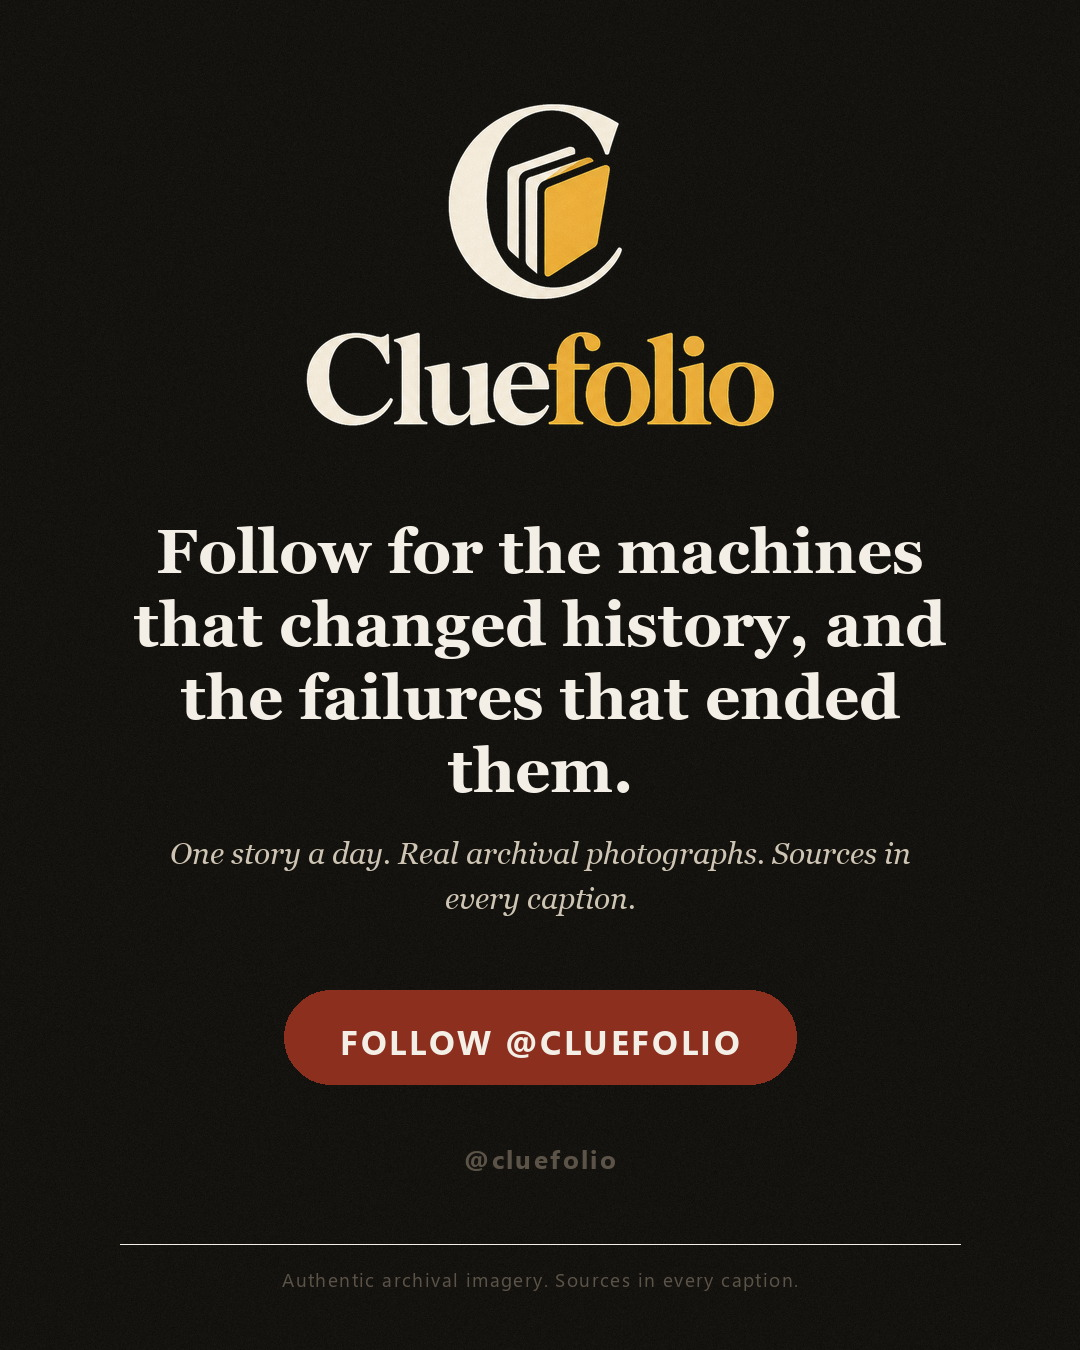
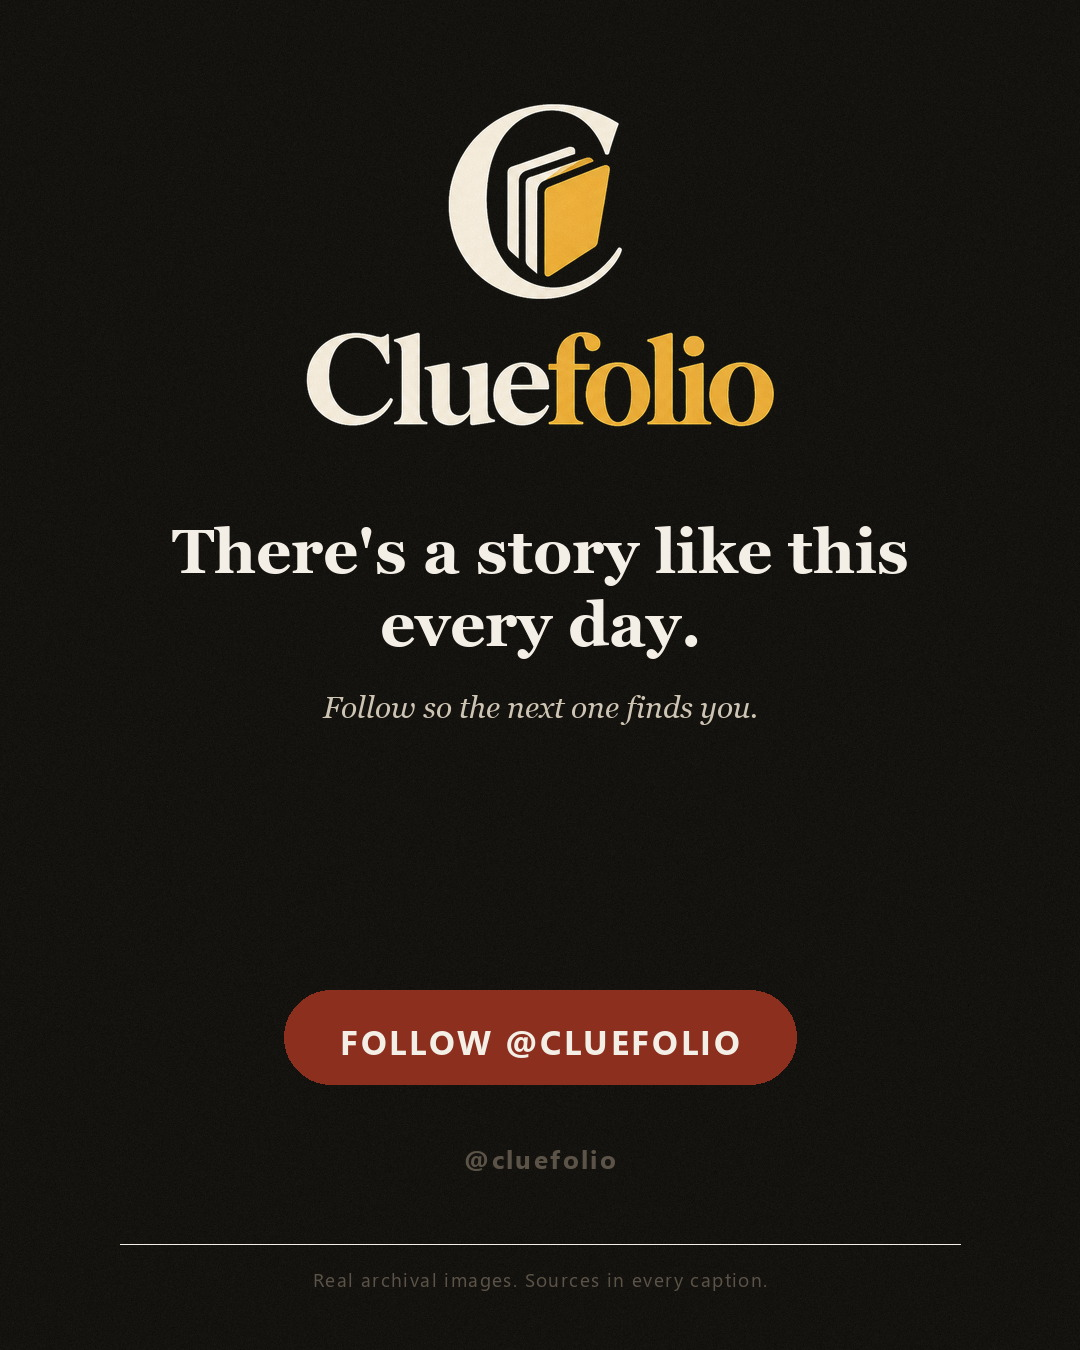
copy: rewrite the closing card to ask for the follow, not describe the brand

diff --git a/scripts/render_post.py b/scripts/render_post.py
@@ -299,7 +299,7 @@ def render_interior(cfg, manifest, item, out_path: Path) -> None:
 
     margin = 52
     f_cat = load_font(SEGOE_SEMI, 19)
-    tag = "CLUEFOLIO  ·  " + cfg["cover"]["category"]
+    tag = "CLUEFOLIO  Â·  " + cfg["cover"]["category"]
     tw = tracked_width(draw, tag, f_cat, tracking=2.2)
     pad_x, pad_y = 16, 11
     draw.rectangle(
@@ -423,7 +423,7 @@ def render_plate(cfg, manifest, item, out_path: Path) -> None:
 
     margin = 76
     f_tag = load_font(SEGOE_SEMI, 20)
-    tag = "CLUEFOLIO  ·  " + cfg["cover"]["category"]
+    tag = "CLUEFOLIO  Â·  " + cfg["cover"]["category"]
     draw_tracked(draw, (margin, 62), tag, f_tag, muted, tracking=2.4)
     draw.line([(margin, 98), (W - margin, 98)], fill=rule, width=2)
 
@@ -539,7 +539,7 @@ def render_cta(cfg, item, out_path: Path) -> None:
         draw.ellipse([cx - 13, cy - 13, cx + 13, cy + 13], fill=paper)
 
     f_head = load_font(GEORGIA_BOLD, 62)
-    headline = item.get("headline", "Follow for the disasters the textbooks skip.")
+    headline = item.get("headline", "There's a story like this every day.")
     lines = wrap_to_width(draw, headline, f_head, W - 240)
     y = headline_top
     for line in lines[:4]:

diff --git a/brand/growth-playbook.md b/brand/growth-playbook.md
@@ -73,7 +73,7 @@ Single images are the weakest format on the platform. Every post is a carousel.
 | 4 | The turn | The moment it became unavoidable |
 | 5 | Human cost | Names, ages, families. Dignity rules apply — no victim imagery |
 | 6 | The consequence | What changed in law, engineering, or safety |
-| 7 | The hook home | Payoff line + "Save this" / "Follow for the next one" |
+| 7 | The hook home | Payoff line + a reason to follow: one promise, one button |
 
 Rules:
 
@@ -190,6 +190,28 @@ Every pack pushed to `content/<slug>/` must contain:
   automatically from the `cta` block in `render-config.json`.
 - A cover tag from the pillar table: MURDER, MYSTERY, DISASTER, SURVIVAL,
   COVER-UP, or WEIRD.
+
+### Slide 7 copy rules
+
+The closing card asks for a follow, so it must earn one. Three parts, no more:
+
+- **Headline:** the promise, in under 10 words. It describes what they get by
+  following, not what the account is. "There's a story like this every day."
+  not "Follow us for history content."
+- **Subline:** the reason to act now, under 8 words. "Follow so the next one
+  finds you."
+- **Button:** `FOLLOW @CLUEFOLIO`, unchanged, so it becomes a visual habit.
+
+Never put a paragraph on this slide, never stack two promises, and never ask
+for a follow twice. One ask, one button, done.
+
+Approved variants to rotate so posts do not read identically:
+
+| Headline | Subline |
+|---|---|
+| There's a story like this every day. | Follow so the next one finds you. |
+| You've never heard the next one. | One story a day. |
+| One a day. All of them true. | Follow before the next one posts. |
 - Caption with the keyword inside the first 125 characters.
 - Alt text describing each slide for screen readers.
 - Source ledger referenced by the pinned comment.
